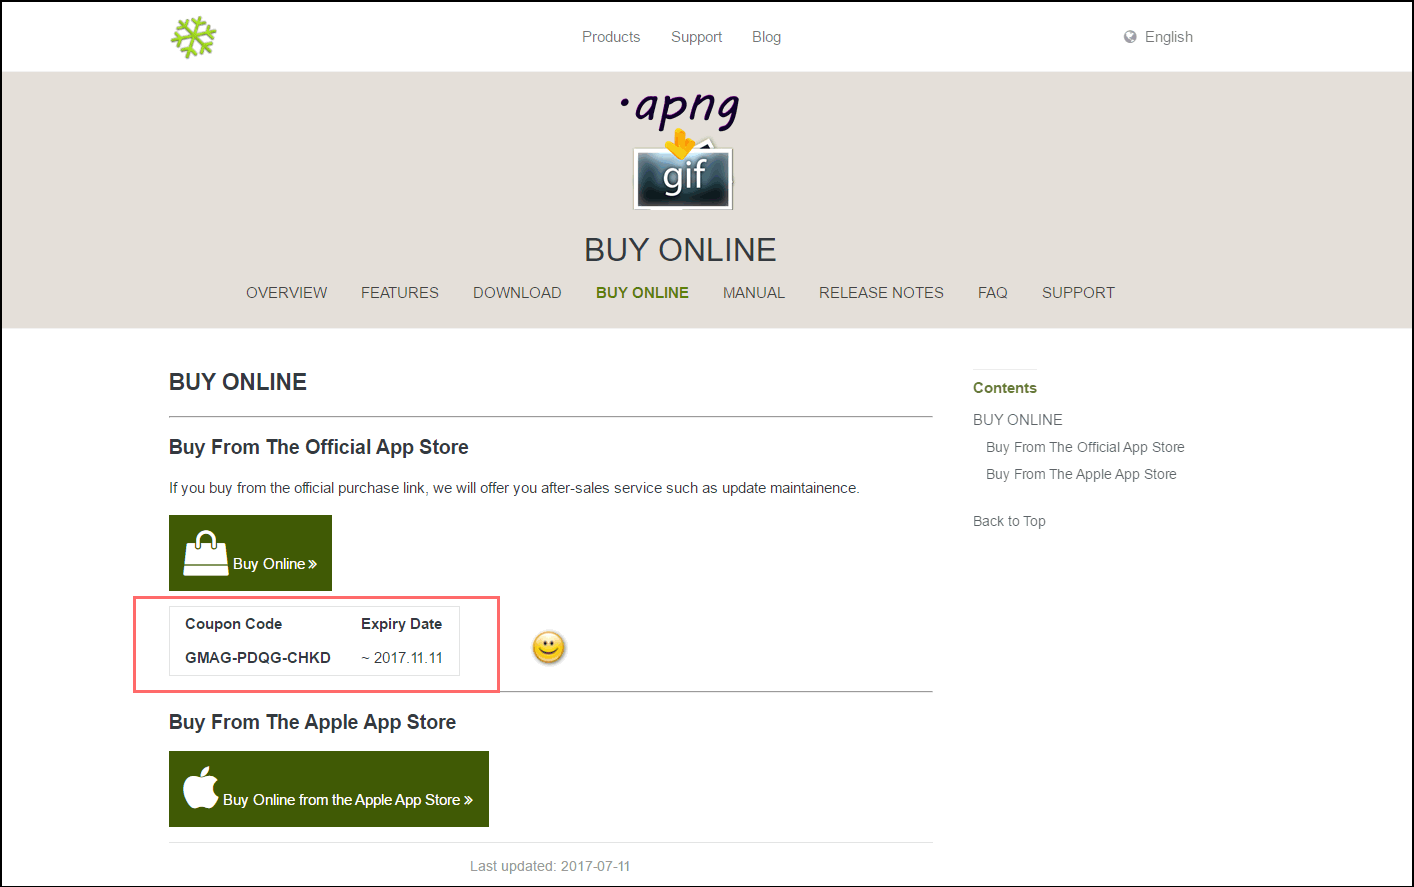
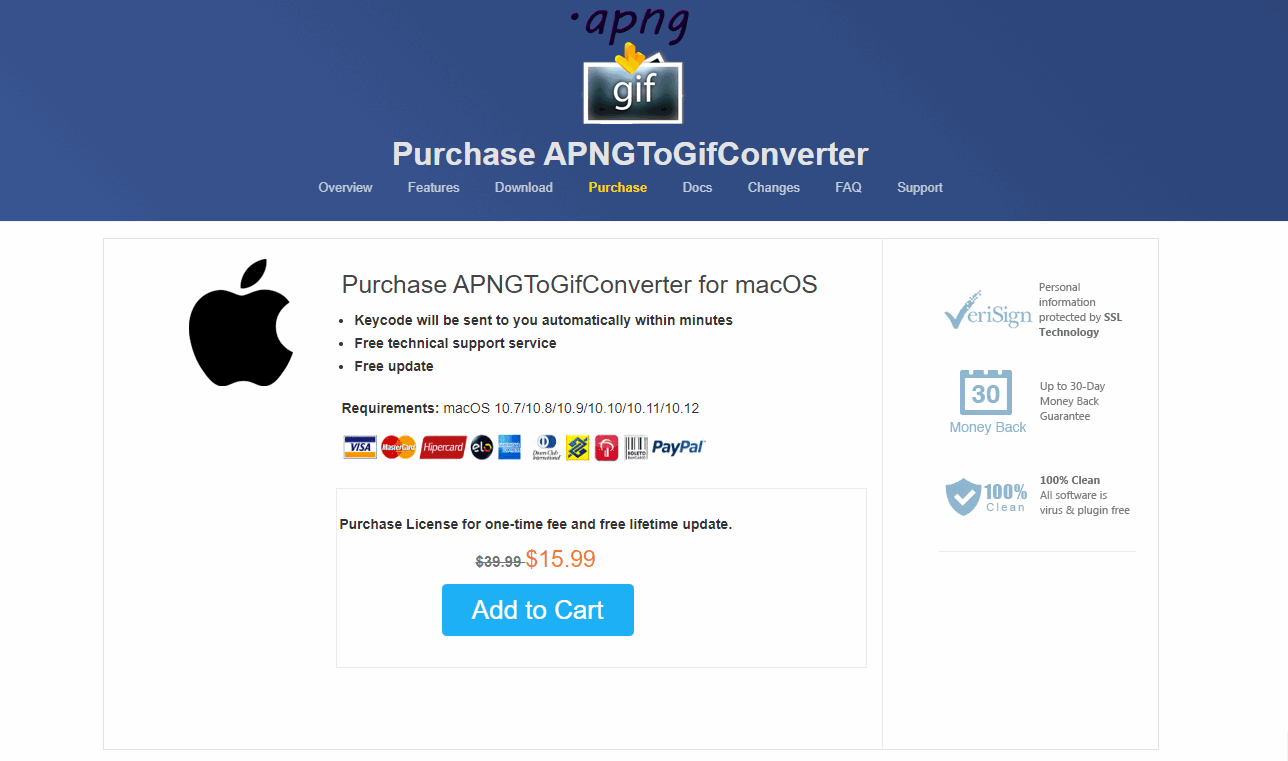
auto sync && update commit

diff --git a/source/products/store/sudokumm/docs.md b/source/products/store/sudokumm/docs.md
@@ -10,7 +10,7 @@ current: docs
 ## SudokuMM
 An online Sudoku game for Mac OS X
 
-Version 4.0
+Version 4.1
 
 
 <br>
@@ -27,7 +27,7 @@ The software is made for Mac users only (**macOS 10.7(64-bit)** or newer is requ
 
 <br>
 ### **Installation**:
-SudokuMM runs on Mac only, MacOS 10.7(64-bit) or newer is required. The new version 4.0 is released now in [DOWNLOAD](./download.html).  Players can download the software in our download page of the official website. Older version is also provided in Older Releases in [DOWNLOAD](./download.html). 
+SudokuMM runs on Mac only, MacOS 10.7(64-bit) or newer is required. The new version 4.1 is released now in [DOWNLOAD](./download.html).  Players can download the software in our download page of the official website. Older version is also provided in Older Releases in [DOWNLOAD](./download.html). 
 
 
 There are two kinds of install package in [DOWNLOAD](./download.html) page, you need to choose one suitable package, click it and wait for the downloading. Then choose a suitable folder to put the software in and click "open" to run it.   
@@ -49,7 +49,7 @@ This section describes daily use guide to the SudokuMM clients. It instructs you
 <br>
 
 <br>
-2. Secondly, in the BUY ONLINE page, there are two optional purchase link for you, that is, you can choose to buy from our **official App store** or the Apple App store. The good news is, we offer a **coupon code** below the purchase link for anyone who willing to buy from the Gmagon official App store. 
+2. Secondly, in the BUY ONLINE page, you can choose to buy from our **official App store** by clicking "Add to Cart" 
 <br>
 ![](./images/screens/sudukumm_buyonline_1440x900.png) 
 <br>

diff --git a/source/products/store/gmagon_css_maker/docs.md b/source/products/store/gmagon_css_maker/docs.md
@@ -55,7 +55,7 @@ If you encounter any problems during or after installing Gmagon CSS Maker please
 This section describes daily use guide to the Gmagon CSS Maker clients. It instructs you how to use the software in details after the installation finished.
 1. Firstly, you need to open the file and run it, an interface will pop up in the desktop. As what have mentioned before, if you want to try out this software first, click "continue" to use the trial version, you have thirty days to try it freely. If you satisfied with our product,and decided to pay for it, please click the "Buy" button or directly come to our home page and enter the [BUY ONLINE](./buy.html)
 <br>
-2. Secondly, in the BUY ONLINE page, there are two optional purchase link for you, that is, you can choose to buy from our **official App store** or the Apple App store. The good news is, we offer a **coupon code** below the purchase link for anyone who willing to buy from the Gmagon official App store. 
+2. Secondly, in the BUY ONLINE page, there are two optional purchase link for you, that is, you can choose to buy from our **official App store** by clicking "Add to Cart"
 ![](./images/screens/gmagoncssmaker_buyonline_1440x900.png) 
 <br>
 3. Thirdly, in the Gmagon Online Store, you need to put the product in your cart, fill the Billing Information, choose your payment information, and then finish the whole purchase process.

diff --git a/source/products/store/apngtogifconverter/docs.md b/source/products/store/apngtogifconverter/docs.md
@@ -55,7 +55,7 @@ If you encounter any problems during or after installing APNGToGifConverter plea
 This section describes daily use guide to the APNGToGifConverter clients. It instructs you how to use the software in details after the installation finished.
 1. Firstly, you need to open the file and run it, an interface will pop up in the desktop. As what have mentioned before, if you want to try out this software first, click "continue" to use the trial version, you have three chances to try it freely. If you satisfied with our product,and decided to pay for it, please click the "Buy" button or directly come to our home page and enter the [BUY ONLINE](./buy.html)
 <br>
-2. Secondly, in the BUY ONLINE page, there are two optional purchase link for you, that is, you can choose to buy from our **official App store** or the Apple App store. The good news is, we offer a **coupon code** below the purchase link for anyone who willing to buy from the Gmagon official App store. 
+2. Secondly, in the BUY ONLINE page, there are two optional purchase link for you, that is, you can choose to buy from our **official App store** by clicking "Add to Cart".
 <br>
 ![](./images/screens/apngtogifconverter_buyonline_1440x900.png) 
 <br>

diff --git a/source/products/store/trytoaac/docs.md b/source/products/store/trytoaac/docs.md
@@ -53,7 +53,7 @@ If you encounter any problems during or after installing TryToAAC please refer t
 This section describes daily use guide to the TryToAAC client. It instructs you how to use the software in details after the installation finished.
 1. Firstly, you need to open the file and run it, the window of TryToAAC will pop up in the desktop. As what have mentioned before, if you want to try out this software first, click "continue" to use the trial version, you have three chances to try it freely. If you satisfied with our product,and decided to pay for it, please click the "Buy" button or directly come to our home page and enter the [BUY ONLINE](./buy.html).
 <br>
-2. Secondly, in the BUY ONLINE page, there are two optional purchase link for you, that is, you can choose to buy from our **official App store** or the Apple App store. The good news is, we offer a **coupon code** below the purchase link for anyone who willing to buy from the Gmagon official App store. 
+2. Secondly, in the BUY ONLINE page, there are two optional purchase link for you, that is, you can choose to buy from our **official App store** by clicking "Add to Cart". 
 <br>
 ![](.\images\screens\buy online_800x450.png) 
 <br>

diff --git a/source/products/store/xls2csv/docs.md b/source/products/store/xls2csv/docs.md
@@ -49,7 +49,7 @@ This section instructs you how to purchase and run XLS2csv in detail.
 
 1. Firstly, run XLS2csv on your desktop. As what have mentioned before, if you want to try it out, simply click "continue". The free trial version will stop working after 30 days. If you are satisfied with our product, and decide to pay for it, please click the "Buy" button or directly go to our [BUY ONLINE](./buy.html).
 <br>
-2. Secondly, in the BUY ONLINE page, there are two optional purchase link for you, that is, you can choose to buy from our Gmagon online store or the Apple App store. 
+2. Secondly, in the BUY ONLINE page, there are two optional purchase link for you, that is, you can choose to buy from our Gmagon online store by clicking "Add to Cart". 
 ![](./images/screens/purchase.png) 
 <br>
 3. Thirdly, in the Gmagon Online Store, you need to put the product in your cart, fill the Billing Information, choose your payment information, and finish the whole purchase process.

diff --git a/source/products/store/trytomp3/docs.md b/source/products/store/trytomp3/docs.md
@@ -45,7 +45,7 @@ This section instructs you how to purchase and run TryToMP3 in detail.
  
 1. Firstly, run TryToMP3 on your desktop. As what have mentioned before, if you want to try it out, simply click "continue". The free trial version will stop working after 30 days. If you are satisfied with our product, and decide to pay for it, please click the "Buy" button or directly go to our [purchase page](./buy.html).
 <br>
-2. Secondly, in the Purchase page, there are two options. You can choose to buy from our Gmagon online store or the Apple App store. 
+2. Secondly, in the Purchase page, there are two options. You can choose to buy from our Gmagon online store by clicking "Add to Cart". 
 ![](.\images\screens\purchase.png)
 <br>
 3. Thirdly, in the Gmagon Online Store, you need to put the product in your cart, fill the Billing Information, and choose your payment information.

diff --git a/source/products/store/sudokumm/index.md b/source/products/store/sudokumm/index.md
@@ -16,7 +16,7 @@ description: SudokuMM is a easy-to-use tool to let users play Sudoku games conve
 
 <br>
 <div class="buy">
-<center><h3>Price: <span style="color: #f00; margin: 0 10px;">$24.99<br />
+<center><h3>Price: <span style="color: #f00; margin: 0 10px;">$4.99<br />
 </span></h3>
 [![](../../../asset/images/free-download.png)](./download.html) [![](../../../asset/images/buy-now.png)](./buy.html)</center>
 

diff --git a/source/products/store/sudokumm/buy.md b/source/products/store/sudokumm/buy.md
@@ -24,8 +24,8 @@ macos_offical_couponCode: GMAG-1KPT-NDEV
 macos_offical_couponDate: 2017.10.27
 
 # 1.3 macOS 官方产品售价定义
-macos_offical_maxPrices: $79.99
-macos_offical_curPrices: $19.99
+macos_offical_maxPrices: $29.99
+macos_offical_curPrices: $4.99
 
 # 1.4 macOS 官方产品购买链接
 macos_offical_buyUrl: https://shopper.mycommerce.com/checkout/cart/add/55399-54

diff --git a/source/products/store/sudokumm/changelog.md b/source/products/store/sudokumm/changelog.md
@@ -4,12 +4,15 @@ subtitle: Release Notes
 comments: false
 current: changelog
 ---
+## v4.1
+<script> GmagonUtils.$verNote('2017-09-07')</script>
+Low level SDK updated to Ver. 1.2.
 
 ## v4.0
 <script> GmagonUtils.$verNote('2017-06-27')</script>
 
 
-### Downloads
+### Older Downloads
 
 for macOS 64-bit OS | FileSize
 ------------------------------ | -------------------------
